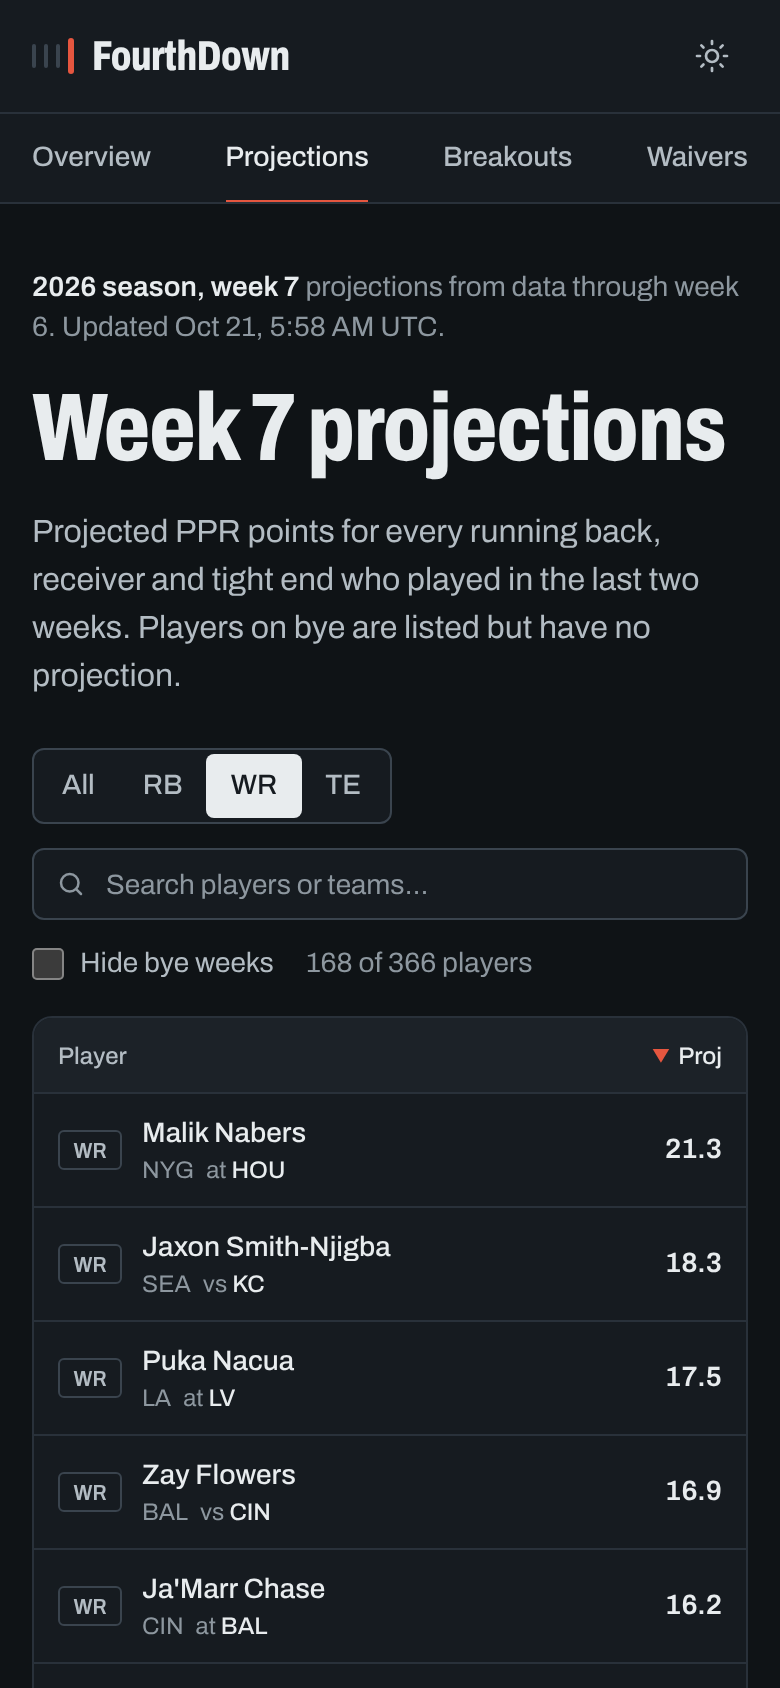
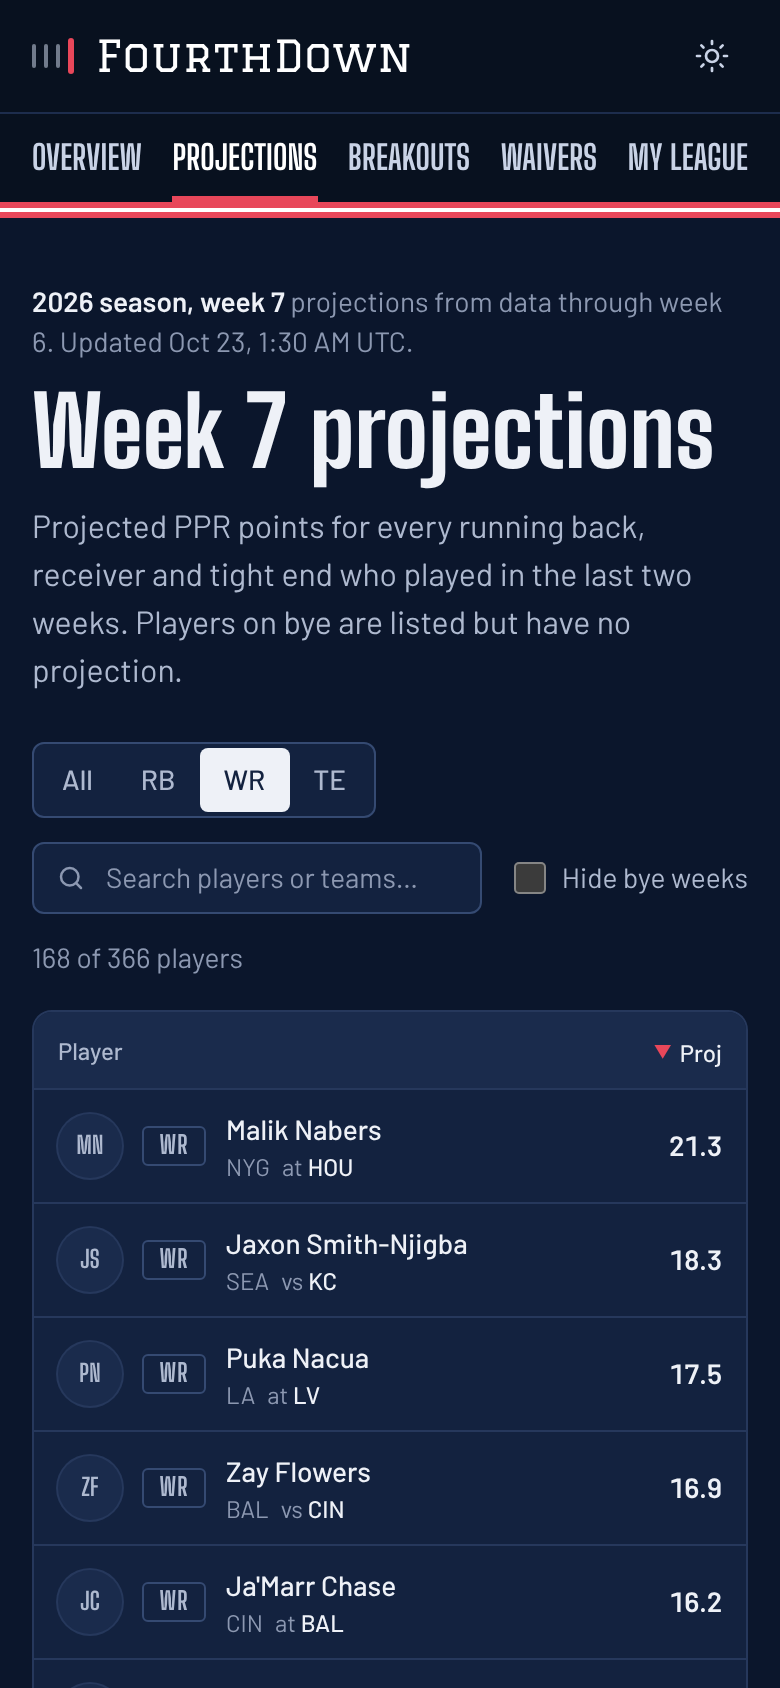
README and screenshots for the redesign and league moves

diff --git a/README.md b/README.md
@@ -5,7 +5,13 @@
 
 **Live site: [fourth-down-ai.vercel.app](https://fourth-down-ai.vercel.app)**
 
-FourthDown projects next-week PPR fantasy points for every active NFL running back, wide receiver and tight end, then grades itself against the obvious alternative: assuming each player repeats his 3-week average.
+Anyone can project fantasy points. FourthDown is built for the decisions that actually win leagues:
+
+- **Breakouts before the box score.** Players whose role is growing (more touches, a bigger target share) and who project well above their recent average, flagged before the points show up.
+- **Waiver pickups you can actually get.** Players likely rostered in a 12-team league are filtered out, so every name is a real claim.
+- **Add/drop moves for your roster.** Enter a Sleeper username and the site checks your league's real waiver wire against your bench, then ranks the moves by how much they improve your starting lineup.
+
+Under all three is an XGBoost model that projects next-week PPR points for every active RB, WR and TE, and grades itself against the obvious alternative: assuming each player repeats his 3-week average.
 
 ![FourthDown overview page](docs/screenshots/overview.png)
 
@@ -25,10 +31,13 @@ XGBoost had the lower error in every test week and at every position. The live s
 
 | Page | What it shows |
 |---|---|
-| **Overview** | Model vs baseline by week and position, a calibration check, which inputs the model relies on, and this week's top players |
-| **Projections** | Every active RB/WR/TE with projection, matchup, position rank and usage, filterable and shareable by URL (`/projections?pos=te`) |
+| **Overview** | A sports-feed front page: this week's breakout stories with usage trends, the top waiver targets, and a "why trust it" section with model vs baseline by week and position, a calibration check and the inputs the model relies on |
+| **My league** | Connect a Sleeper league with just a username: your roster, the players actually available in your league, and ranked add/drop moves with the starting-lineup gain for each. Runs entirely in the browser; links are shareable (`/league?user=...&league=...`) |
 | **Breakouts** | Players projected to beat their 3-week average by 2+ points, scored by projected gain and growth in touches and target share |
-| **Waivers** | Likely-available players ranked by waiver score (availability is estimated, since no league is connected) |
+| **Waivers** | Likely-available players ranked by waiver score (estimated availability; connect a league for the exact wire) |
+| **Projections** | Every active RB/WR/TE with projection, matchup, position rank and usage, filterable and shareable by URL (`/projections?pos=te`) |
+
+![Recommended add/drop moves for a connected Sleeper league](docs/screenshots/league.png)
 
 <p>
   <img src="docs/screenshots/charts-dark.png" alt="Accuracy charts in dark mode" width="64%">
@@ -44,19 +53,19 @@ flowchart LR
   C --> D[precompute.py<br/>static JSON]
   D --> E[Next.js site on Vercel]
   F[GitHub Action<br/>daily in season] -->|re-runs and commits<br/>only when data changes| D
-  G[Sleeper API] -.->|optional local mode| H[FastAPI: my team,<br/>add/drop moves]
-  C -.-> H
+  G[Sleeper API] -->|called from the browser| I[My league page:<br/>roster, wire, add/drop]
+  E --> I
 ```
 
 - **Model.** 15 features per player-game: 3-week rolling averages of PPR points, targets, carries, receptions, yards, touchdowns, air yards, target share, air-yards share and WOPR, plus week-over-week changes in target share and opportunities. Row *N* predicts week *N+1*.
 - **No leakage.** Train/test split by season; a completeness check detects partially reported weeks so they never enter training or scoring.
-- **Static by design.** The XGBoost pipeline is too heavy for serverless functions, so `backend/precompute.py` runs it ahead of time and writes five JSON files (`frontend/public/data/`). The site is fully static and loads data in the browser with loading, empty and error states. The schema is documented in [`backend/DATA_SCHEMA.md`](backend/DATA_SCHEMA.md).
+- **Static by design.** The XGBoost pipeline is too heavy for serverless functions, so `backend/precompute.py` runs it ahead of time and writes six JSON files (`frontend/public/data/`). The site is fully static and loads data in the browser with loading, empty and error states. The schema is documented in [`backend/DATA_SCHEMA.md`](backend/DATA_SCHEMA.md).
 - **Fresh data.** [`refresh-data.yml`](.github/workflows/refresh-data.yml) runs every morning during the season: tests, retrain, a guard that refuses to publish if XGBoost stops beating the baseline, then a commit only if the data changed. Vercel redeploys on push.
-- **League mode (optional, local).** With a Sleeper league ID and username, the CLI and FastAPI server add roster-aware waiver pickups and add/drop recommendations scored by starting-lineup gain.
+- **League moves in the browser.** The My league page calls Sleeper's public API directly and runs a TypeScript port of the Python move engine: it finds your league's real waiver wire, builds your best starting lineup (players on bye can't start and are never dropped), and scores each add/drop by starting-lineup gain, projected points swapped, depth risk and breakout signal. A parity test checks the TypeScript output against the Python engine on a fixture league, to 9 decimal places. The same engine is also available locally through a CLI and a FastAPI server.
 
 ## Quality
 
-- **114 Playwright end-to-end tests** across desktop and phone: navigation, theming, every chart's table view, sorting, filtering, search, URL state, loading/empty/error states (including offline and malformed data), and **axe WCAG 2.2 AA scans** of every page in light and dark mode. The tests read the same data files as the site, so a displayed number that disagrees with the model output fails the build.
+- **162 Playwright end-to-end tests** across desktop and phone: navigation, theming, every chart's table view, sorting, filtering, search, URL state, loading/empty/error states (including offline and malformed data), the league flow against a mocked Sleeper API (unknown user, no leagues, offline, shared links), and **axe WCAG 2.2 AA scans** of every page in light and dark mode. The tests read the same data files as the site, so a displayed number that disagrees with the model output fails the build.
 - **Backend tests** run the full pipeline on synthetic data (no network) and check the published metrics against the model code.
 - **CI** runs both suites, lint and the production build on every push and pull request. Dependabot keeps dependencies current.
 
@@ -80,7 +89,7 @@ npm run dev                             # http://localhost:3000
 npm run test:e2e:build
 ```
 
-Optional league mode:
+Optional local league mode (the site's My league page does the same in the browser):
 
 ```bash
 python backend/main.py --league-id <SLEEPER_LEAGUE_ID> --username <SLEEPER_USERNAME>
@@ -98,8 +107,9 @@ backend/
   api.py, main.py       optional local league mode (FastAPI / CLI)
   tests/
 frontend/
-  src/app/              Overview, Projections, Breakouts, Waivers (+ /design system page)
-  src/components/       design system, charts, tables, data loading
+  src/app/              Overview, My league, Breakouts, Waivers, Projections (+ /design system page)
+  src/components/       design system, feed stories, charts, tables, league views
+  src/lib/league/       Sleeper client and the in-browser move engine
   e2e/                  Playwright tests
   public/data/          model output (refreshed by GitHub Actions)
 .github/workflows/      ci.yml, refresh-data.yml
@@ -112,5 +122,6 @@ Python, pandas, XGBoost, scikit-learn, nflreadpy, FastAPI · Next.js, React, Typ
 ## Notes and limits
 
 - PPR scoring, RB/WR/TE only. Projections are estimates, not advice.
-- Waiver availability on the public site is estimated (top 30 RB / 42 WR / 12 TE by season points are treated as rostered). Use league mode for exact availability.
+- Waiver availability on the public pages is estimated (top 30 RB / 42 WR / 12 TE by season points are treated as rostered). Connect a league on the My league page for exact availability.
+- League moves cover RB/WR/TE; QB, K and DEF appear on your roster but aren't projected.
 - Player data from [nflverse](https://github.com/nflverse). Not affiliated with the NFL or Sleeper.
